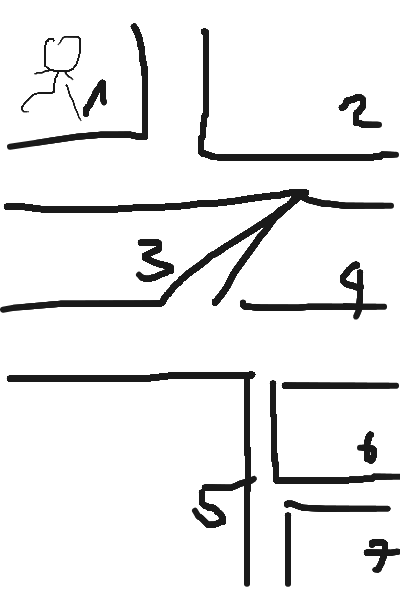
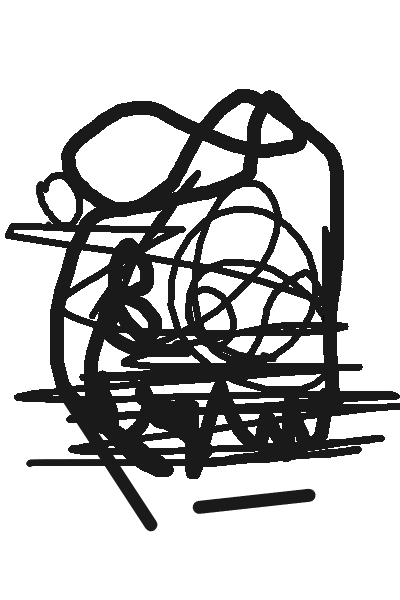
fix

diff --git a/src/main/resources/templates/mangaka.html b/src/main/resources/templates/mangaka.html
@@ -4275,11 +4275,41 @@ function formatStatusVi(status, fallback = "Chưa xác định") {
                                   data-assistant-name="${escapeProjectHtml(sub.assistant.user.fullname)}">Giao l\u1ea1i vi\u1ec7c cho tr\u1ee3 l\u00ed</button>`;
               }
 
+              // M\u1ee5c 8: hi\u1ec7n task \u0111\u00e3 giao & \u0111ang giao ngay trong m\u00e0n qu\u1ea3n l\u00fd chapter.
+              // M\u1ee5c 9+10: k\u00e8m so s\u00e1nh "B\u1ea3n t\u00e1c gi\u1ea3 giao" \u2194 "B\u1ea3n tr\u1ee3 l\u00fd n\u1ed9p".
               let assignmentInfo = "";
-              if (sub && p.status === "intask") {
+              if (sub) {
+                const assistantName = escapeProjectHtml(
+                  (sub.assistant && sub.assistant.user && sub.assistant.user.fullname) || "?",
+                );
+                let taskStatusText = "\u0110\u00e3 giao";
+                if (p.status === "intask") taskStatusText = "\u0110ang th\u1ef1c hi\u1ec7n";
+                else if (sub.status === "done") taskStatusText = "Ch\u1edd b\u1ea1n duy\u1ec7t";
+                else if (sub.status === "finish") taskStatusText = "\u0110\u00e3 duy\u1ec7t";
+
+                let compareHtml = "";
+                if (sub.assignedFilePath || sub.filePath) {
+                  compareHtml = `<div class="task-compare">
+                      <div class="task-compare-col">
+                        <span class="task-compare-label">B\u1ea3n t\u00e1c gi\u1ea3 giao</span>
+                        ${sub.assignedFilePath
+                          ? `<a href="${sub.assignedFilePath}" target="_blank"><img src="${sub.assignedFilePath}?t=${Date.now()}" class="task-compare-img" alt="B\u1ea3n t\u00e1c gi\u1ea3 giao" /></a>`
+                          : `<span class="task-compare-empty">\u2014</span>`}
+                      </div>
+                      <div class="task-compare-col">
+                        <span class="task-compare-label">B\u1ea3n tr\u1ee3 l\u00fd n\u1ed9p</span>
+                        ${sub.filePath
+                          ? `<a href="${sub.filePath}" target="_blank"><img src="${sub.filePath}?t=${Date.now()}" class="task-compare-img" alt="B\u1ea3n tr\u1ee3 l\u00fd n\u1ed9p" /></a>`
+                          : `<span class="task-compare-empty">Ch\u01b0a n\u1ed9p</span>`}
+                      </div>
+                    </div>`;
+                }
+
                 assignmentInfo = `<div class="assistant-assignment-badge page-detail-assignment">
-                    <div>Tr\u1ee3 l\u00ed: <b>${escapeProjectHtml(sub.assistant.user.fullname)}</b></div>
+                    <div>Tr\u1ee3 l\u00ed: <b>${assistantName}</b></div>
+                    <div>Tr\u1ea1ng th\u00e1i task: <b>${taskStatusText}</b></div>
                     <div>Deadline: ${escapeProjectHtml(sub.deadline || "Ch\u01b0a \u0111\u1eb7t")}</div>
+                    ${compareHtml}
                   </div>`;
               }
 

diff --git a/src/main/resources/static/css/all.css b/src/main/resources/static/css/all.css
@@ -7878,6 +7878,45 @@ body.proposal-workspace-active #tab-proposal.tab-pane[style*="block"] {
   color: var(--app-action-text);
 }
 
+/* So sánh "Bản tác giả giao" ↔ "Bản trợ lý nộp" trên card trang (mangaka). */
+.task-compare {
+  display: flex;
+  gap: 0.6rem;
+  margin-top: 0.5rem;
+}
+
+.task-compare-col {
+  display: flex;
+  flex-direction: column;
+  align-items: center;
+  gap: 0.25rem;
+  flex: 1;
+  min-width: 0;
+}
+
+.task-compare-label {
+  font-size: 0.72rem;
+  font-weight: 700;
+  opacity: 0.85;
+  text-align: center;
+}
+
+.task-compare-img {
+  width: 100%;
+  max-width: 120px;
+  height: auto;
+  border: 1px solid var(--app-border-strong, #444);
+  border-radius: 6px;
+  object-fit: contain;
+  background: var(--app-surface-2, #1a1a1a);
+}
+
+.task-compare-empty {
+  font-size: 0.75rem;
+  opacity: 0.6;
+  padding: 0.5rem 0;
+}
+
 /* Panel hội đồng hiển thị thẳng trong trang chủ (thay cho popup). */
 .editor-inline-panels {
   width: 100%;

diff --git a/src/main/java/com/example/manga_management/controller/PageController.java b/src/main/java/com/example/manga_management/controller/PageController.java
@@ -354,13 +354,15 @@ public class PageController {
             submission.setDeadline(deadline);
             submission.setStatus("intask");
 
+            // Snapshot BẤT BIẾN "bản tác giả giao" — lưu ở file riêng {id}_assigned.png
+            // để lần trợ lý lưu bài sau này (ghi /Submission/{id}.png) không đè lên.
             if (page.getFilePath() != null && !page.getFilePath().isBlank()) {
-                String fileName = submission.getId() + ".png";
+                String fileName = submission.getId() + "_assigned.png";
                 Path source = Paths.get("src/main/resources/static" + page.getFilePath());
                 Path targetDir = Paths.get("src/main/resources/static/Submission");
                 Files.createDirectories(targetDir);
                 Files.copy(source, targetDir.resolve(fileName), StandardCopyOption.REPLACE_EXISTING);
-                submission.setFilePath("/Submission/" + fileName);
+                submission.setAssignedFilePath("/Submission/" + fileName);
             }
 
             submissionRepository.save(submission);

diff --git a/src/main/java/com/example/manga_management/entity/Submission.java b/src/main/java/com/example/manga_management/entity/Submission.java
@@ -29,8 +29,17 @@ public class Submission {
     @Column(name = "Deadline", nullable = false, columnDefinition = "DATETIME")
     private LocalDateTime deadline;
 
+    /** Ảnh "bản trợ lý nộp" — bản vẽ trợ lý lưu/nộp (bị cập nhật mỗi lần trợ lý lưu). */
     @Column(name = "FilePath", length = 60)
     private String filePath;
+
+    /**
+     * Ảnh "bản tác giả giao" — snapshot BẤT BIẾN của trang tại thời điểm mangaka
+     * giao việc. Lưu ở file riêng ({id}_assigned.png) nên trợ lý lưu bài về sau
+     * KHÔNG ghi đè được, giúp mangaka so sánh bản giao ↔ bản trợ lý nộp.
+     */
+    @Column(name = "AssignedFilePath", length = 60)
+    private String assignedFilePath;
 
     @Column(name = "comment", length = 1000)
     private String comment;
